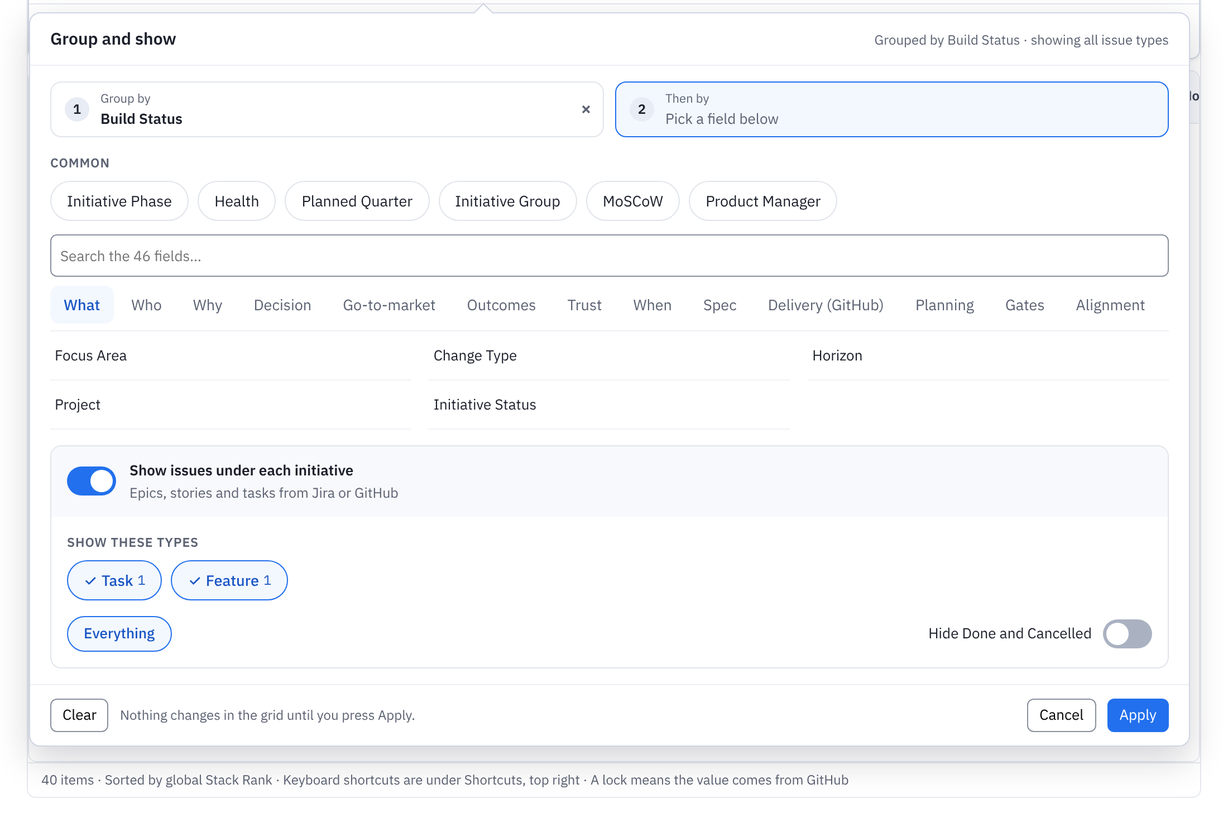
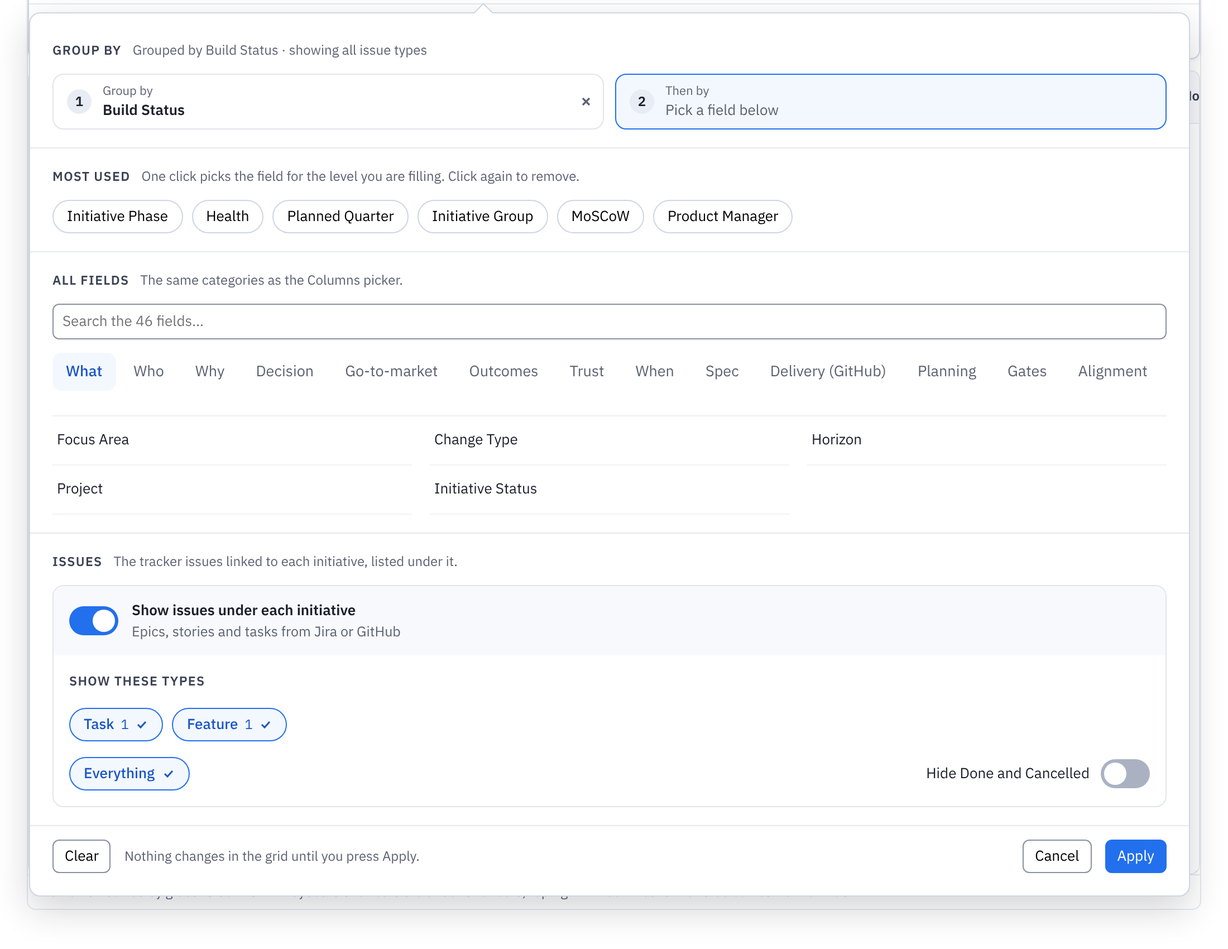
Group by panel: Common is Most used, built from the same parts and pills as the Filters panel (#437)
Claude-Session: https://claude.ai/code/session_01TMdyHs6Xh7SAJXKWikoXp9

diff --git a/apps/web/src/features/portfolio/view-controls.tsx b/apps/web/src/features/portfolio/view-controls.tsx
@@ -1,10 +1,10 @@
 "use client";
 
-import { useEffect, useLayoutEffect, useMemo, useRef, useState, type RefObject } from "react";
+import { useEffect, useLayoutEffect, useMemo, useRef, useState, type KeyboardEvent, type RefObject } from "react";
 import {
   FIELD_BY_KEY, fieldOptions, filterOptions, filterSummary, groupPickerSections, groupSummary, isOpenList, needsSearch, optionsFor, type Filter,
 } from "@pv/domain";
-import { menuSearchKeys, NoResults, SearchInput, SelectField } from "@/components/search-list";
+import { NoResults, SearchInput, SelectField } from "@/components/search-list";
 import { DateInput } from "@/components/date-input";
 import { Popover } from "./popover";
 import type { Lookups } from "./types";
@@ -94,7 +94,7 @@ function GroupPanel({ state, customerSafe, issueTypes, issuesLoading, onOpenIssu
   const [draft, setDraft] = useState<GroupState>({ ...state });
   const [query, setQuery] = useState("");
   // opens on the first category (a few rows), not on all 46 fields, so the issues card below stays in sight
-  const [tab, setTab] = useState<string>(() => groupPickerSections({ customerSafe }).find((x) => x.category !== "Common")?.category ?? ALL_TAB);
+  const [tab, setTab] = useState<string>(() => groupPickerSections({ customerSafe }).find((x) => x.category !== "Most used")?.category ?? ALL_TAB);
   // which level the next pick fills: the first empty one, else the main one
   const [target, setTarget] = useState<0 | 1>(state.groupBy && !state.thenBy ? 1 : 0);
   const panelRef = useRef<HTMLDivElement>(null);
@@ -104,12 +104,12 @@ function GroupPanel({ state, customerSafe, issueTypes, issuesLoading, onOpenIssu
   const names = [draft.groupBy, draft.thenBy] as const;
   const nameOf = (k: string | null) => (k ? groupSummary(k) : null);
   const sections = useMemo(() => groupPickerSections({ customerSafe, taken: level === 0 ? draft.thenBy : draft.groupBy }), [customerSafe, level, draft.thenBy, draft.groupBy]);
-  const common = sections.find((x) => x.category === "Common")?.fields ?? [];
-  const categories = sections.filter((x) => x.category !== "Common");
+  const mostUsed = sections.find((x) => x.category === "Most used")?.fields ?? [];
+  const categories = sections.filter((x) => x.category !== "Most used");
   const searching = query.trim() !== "";
   const all = useMemo(() => fieldOptions(sections.flatMap((x) => x.fields)), [sections]);
   const matching = new Set(filterOptions(all, query).map((o) => o.value));
-  // searching looks through every field (the Common ones too); otherwise the grid shows the chosen category, the Common ones being the chips above
+  // searching looks through every field (the Most used ones too); otherwise the grid shows the chosen category, the Most used ones being the pills above
   const listed = searching ? sections.flatMap((x) => x.fields).filter((f) => matching.has(f.key)) : (tab === ALL_TAB ? categories : categories.filter((x) => x.category === tab)).flatMap((x) => x.fields);
   const mark = (key: string) => (draft.groupBy === key ? "Group by" : draft.thenBy === key ? "Then by" : null);
 
@@ -143,42 +143,61 @@ function GroupPanel({ state, customerSafe, issueTypes, issuesLoading, onOpenIssu
   const typesText = draft.issueTypes === null ? "all issue types" : draft.issueTypes.join(", ");
   const summary = `${draft.groupBy ? `Grouped by ${groupSummary(draft.groupBy, draft.thenBy)}` : "Not grouped"}${draft.showIssues ? ` · showing ${typesText}${draft.hideDone ? ", hiding Done and Cancelled" : ""}` : ""}`;
 
+  // The keyboard path through the pills and the field grid from the search box: Down goes to the first one, Up to the last, Enter takes the first match.
+  const searchKeys = (e: KeyboardEvent<HTMLInputElement>) => {
+    const items = () => Array.from(panelRef.current?.querySelectorAll<HTMLElement>('.gp-body [role="menuitemradio"]') ?? []);
+    if (e.key === "ArrowDown") { e.preventDefault(); items()[0]?.focus(); }
+    else if (e.key === "ArrowUp") { e.preventDefault(); items().at(-1)?.focus(); }
+    else if (e.key === "Enter") { e.preventDefault(); items()[0]?.click(); }
+  };
+  const tick = <svg width="12" height="12" viewBox="0 0 24 24" fill="none" stroke="currentColor" strokeWidth="3" aria-hidden="true"><path d="m5 12 5 5 9-10" /></svg>;
+
   return (
     <div ref={panelRef} role="group" aria-label="Group by" className="gp gp-wide" style={maxHeight ? { maxHeight } : undefined}>
-      <div className="gp-head"><b>Group and show</b><span className="panel-note" aria-live="polite">{summary}</span></div>
       <div className="gp-body">
-        <div className="gp-slots" role="group" aria-label="Grouping levels">
-          {([0, 1] as const).map((l) => {
-            const value = names[l];
-            const off = l === 1 && !draft.groupBy;
-            return (
-              <div key={l} className="gp-slot" data-active={!off && level === l} data-empty={!value}>
-                <button type="button" className="gp-slot-main" aria-label={`Choose the field for ${LEVEL_NAME[l]}: ${nameOf(value) ?? "none yet"}`} aria-pressed={!off && level === l} disabled={off} onClick={() => setTarget(l)} title={off ? "Choose the main grouping first" : `Pick the field for “${LEVEL_NAME[l]}” below`}>
-                  <span className="gp-slot-n" aria-hidden="true">{l + 1}</span>
-                  <span className="gp-slot-text">
-                    <span className="gp-slot-label">{LEVEL_NAME[l]}</span>
-                    <span className="gp-slot-val">{nameOf(value) ?? (off ? "—" : "Pick a field below")}</span>
-                  </span>
-                </button>
-                {value && <button type="button" className="icon-btn" aria-label={`Remove ${LEVEL_NAME[l]} ${nameOf(value)}`} onClick={() => clear(l)}><svg width="10" height="10" viewBox="0 0 10 10" stroke="currentColor" strokeWidth="1.6" aria-hidden="true"><path d="m2 2 6 6M8 2 2 8" /></svg></button>}
-              </div>
-            );
-          })}
-          {draft.groupBy && draft.thenBy && <button type="button" className="btn btn-link" onClick={swap} aria-label={`Swap: group by ${nameOf(draft.thenBy)}, then by ${nameOf(draft.groupBy)}`}>Swap order</button>}
+        <div className="panel-section">
+          <div className="panel-head gp-head"><h2>Group by</h2><span className="panel-note" aria-live="polite">{summary}</span></div>
+          <div className="gp-slots" role="group" aria-label="Grouping levels">
+            {([0, 1] as const).map((l) => {
+              const value = names[l];
+              const off = l === 1 && !draft.groupBy;
+              return (
+                <div key={l} className="gp-slot" data-active={!off && level === l} data-empty={!value}>
+                  <button type="button" className="gp-slot-main" aria-label={`Choose the field for ${LEVEL_NAME[l]}: ${nameOf(value) ?? "none yet"}`} aria-pressed={!off && level === l} disabled={off} onClick={() => setTarget(l)} title={off ? "Choose the main grouping first" : `Pick the field for “${LEVEL_NAME[l]}” below`}>
+                    <span className="gp-slot-n" aria-hidden="true">{l + 1}</span>
+                    <span className="gp-slot-text">
+                      <span className="gp-slot-label">{LEVEL_NAME[l]}</span>
+                      <span className="gp-slot-val">{nameOf(value) ?? (off ? "—" : "Pick a field below")}</span>
+                    </span>
+                  </button>
+                  {value && <button type="button" className="icon-btn" aria-label={`Remove ${LEVEL_NAME[l]} ${nameOf(value)}`} onClick={() => clear(l)}><svg width="10" height="10" viewBox="0 0 10 10" stroke="currentColor" strokeWidth="1.6" aria-hidden="true"><path d="m2 2 6 6M8 2 2 8" /></svg></button>}
+                </div>
+              );
+            })}
+            {draft.groupBy && draft.thenBy && <button type="button" className="btn btn-link" onClick={swap} aria-label={`Swap: group by ${nameOf(draft.thenBy)}, then by ${nameOf(draft.groupBy)}`}>Swap order</button>}
+          </div>
         </div>
+        <hr className="panel-rule" />
 
-        <div className="gp-picker">
-          {!searching && common.length > 0 && (
-            <div role="group" aria-label="Common fields">
-              <p className="gp-label">Common</p>
-              <div className="gp-chips">
-                {common.map((f) => (
-                  <button key={f.key} type="button" role="menuitemradio" aria-checked={mark(f.key) !== null} className="gp-chip" data-on={mark(f.key) !== null} onClick={() => pick(f.key)}>{f.name}</button>
+        {!searching && mostUsed.length > 0 && (
+          <>
+            <div className="panel-section" role="group" aria-label="Most used fields">
+              <div className="panel-head"><h2>Most used</h2><span className="panel-note">One click picks the field for the level you are filling. Click again to remove.</span></div>
+              <div className="qf-row">
+                {mostUsed.map((f) => (
+                  <button key={f.key} type="button" role="menuitemradio" aria-checked={mark(f.key) !== null} className="qf" onClick={() => pick(f.key)}>
+                    {f.name}{mark(f.key) !== null && tick}
+                  </button>
                 ))}
               </div>
             </div>
-          )}
-          {needsSearch(all.length) && <SearchInput value={query} onChange={setQuery} label="Search group by options" placeholder={`Search the ${all.length} fields…`} onKeyDown={menuSearchKeys} />}
+            <hr className="panel-rule" />
+          </>
+        )}
+
+        <div className="panel-section gp-picker">
+          <div className="panel-head"><h2>All fields</h2><span className="panel-note">The same categories as the Columns picker.</span></div>
+          {needsSearch(all.length) && <SearchInput value={query} onChange={setQuery} label="Search group by options" placeholder={`Search the ${all.length} fields…`} onKeyDown={searchKeys} />}
           {!searching && (
             <div className="gp-tabs" role="group" aria-label="Field categories">
               {[...categories.map((x) => x.category), ALL_TAB].map((c) => (
@@ -200,44 +219,50 @@ function GroupPanel({ state, customerSafe, issueTypes, issuesLoading, onOpenIssu
         </div>
 
         {!customerSafe && (
-          <div className="gp-card" data-on={draft.showIssues}>
-            <label className="gp-switch-row">
-              <input type="checkbox" role="switch" className="sw-input" checked={draft.showIssues} onChange={(e) => setDraft({ ...draft, showIssues: e.target.checked })} />
-              <span><b>Show issues under each initiative</b><span className="gp-sub">Epics, stories and tasks from Jira or GitHub</span></span>
-            </label>
-            {draft.showIssues && (
-              <div className="gp-card-body">
-                <div>
-                  <p className="gp-label">Show these types</p>
-                  {issueTypes.length === 0 ? (
-                    <p className="panel-note" role="status">{issuesLoading ? "Reading the linked issues…" : "No linked issues found for the initiatives shown."}</p>
-                  ) : (
-                    <div className="gp-chips" role="group" aria-label="Issue types">
-                      {issueTypes.map((t) => (
-                        <button key={t.type} type="button" className="gp-chip" aria-pressed={selected.includes(t.type)} data-on={selected.includes(t.type)} onClick={() => toggleType(t.type)}>
-                          {selected.includes(t.type) ? <span aria-hidden="true">✓ </span> : null}{t.type} <span className="gp-n">{t.count}</span>
-                        </button>
-                      ))}
+          <>
+            <hr className="panel-rule" />
+            <div className="panel-section">
+              <div className="panel-head"><h2>Issues</h2><span className="panel-note">The tracker issues linked to each initiative, listed under it.</span></div>
+              <div className="gp-card" data-on={draft.showIssues}>
+                <label className="gp-switch-row">
+                  <input type="checkbox" role="switch" className="sw-input" checked={draft.showIssues} onChange={(e) => setDraft({ ...draft, showIssues: e.target.checked })} />
+                  <span><b>Show issues under each initiative</b><span className="gp-sub">Epics, stories and tasks from Jira or GitHub</span></span>
+                </label>
+                {draft.showIssues && (
+                  <div className="gp-card-body">
+                    <div className="gp-block">
+                      <h3 className="gp-h3">Show these types</h3>
+                      {issueTypes.length === 0 ? (
+                        <p className="panel-note" role="status">{issuesLoading ? "Reading the linked issues…" : "No linked issues found for the initiatives shown."}</p>
+                      ) : (
+                        <div className="qf-row" role="group" aria-label="Issue types">
+                          {issueTypes.map((t) => (
+                            <button key={t.type} type="button" className="qf" aria-pressed={selected.includes(t.type)} onClick={() => toggleType(t.type)}>
+                              {t.type} <span className="gp-n">{t.count}</span>{selected.includes(t.type) && tick}
+                            </button>
+                          ))}
+                        </div>
+                      )}
                     </div>
-                  )}
-                </div>
-                <div className="gp-card-row">
-                  {issueTypes.length > 0 && (
-                    <div className="gp-chips" role="group" aria-label="Presets">
-                      {presets.map((p) => <button key={p.label} type="button" className="gp-chip gp-preset" aria-pressed={isPreset(p.types)} data-on={isPreset(p.types)} onClick={() => setDraft({ ...draft, issueTypes: p.types })}>{p.label}</button>)}
+                    <div className="gp-card-row">
+                      {issueTypes.length > 0 && (
+                        <div className="qf-row" role="group" aria-label="Presets">
+                          {presets.map((p) => <button key={p.label} type="button" className="qf" aria-pressed={isPreset(p.types)} onClick={() => setDraft({ ...draft, issueTypes: p.types })}>{p.label}{isPreset(p.types) && tick}</button>)}
+                        </div>
+                      )}
+                      <label className="gp-switch-row gp-switch-inline">
+                        <span>Hide Done and Cancelled</span>
+                        <input type="checkbox" role="switch" className="sw-input" checked={draft.hideDone} onChange={(e) => setDraft({ ...draft, hideDone: e.target.checked })} />
+                      </label>
                     </div>
-                  )}
-                  <label className="gp-switch-row gp-switch-inline">
-                    <span>Hide Done and Cancelled</span>
-                    <input type="checkbox" role="switch" className="sw-input" checked={draft.hideDone} onChange={(e) => setDraft({ ...draft, hideDone: e.target.checked })} />
-                  </label>
-                </div>
+                  </div>
+                )}
               </div>
-            )}
-          </div>
+            </div>
+          </>
         )}
       </div>
-      <div className="gp-foot">
+      <div className="panel-foot gp-foot">
         <button type="button" className="btn btn-link" onClick={() => { setDraft({ groupBy: null, thenBy: null, showIssues: false, issueTypes: null, hideDone: false }); setTarget(0); }}>Clear</button>
         <span className="panel-note grow">Nothing changes in the grid until you press Apply.</span>
         <button type="button" className="btn" onClick={close}>Cancel</button>

diff --git a/apps/web/src/styles/globals.css b/apps/web/src/styles/globals.css
@@ -362,12 +362,11 @@ a.btn { display: inline-flex; align-items: center; color: inherit; text-decorati
 .issue-chip { flex: none; margin-left: auto; height: 22px; padding: 0 8px; border: 1px solid #d8deea; border-radius: 11px; background: var(--bg); font: inherit; font-size: 11.5px; font-weight: 500; line-height: 20px; color: #374151; cursor: pointer; white-space: nowrap; }
 .issue-chip:hover, .issue-chip:focus-visible { border-color: var(--blue); background: var(--blue-tint-2); outline: none; }
 .issue-chip[aria-expanded="false"] { color: var(--blue-text); }
-/* the Group by panel: wide like Columns. Levels as cards, Common as chips, categories as tabs over a three-column grid of fields, an issues card, a footer that stays in reach. */
+/* the Group by panel: wide like Columns, built from the shared panel parts (panel-section, panel-head, panel-rule, panel-foot, the qf pills of the Quick filters). Levels as cards, Most used as pills, categories as tabs over a three-column grid of fields, an issues card, a footer that stays in reach. */
 .gp { display: flex; flex-direction: column; min-width: 0; box-sizing: border-box; }
-.gp-head { flex: none; display: flex; flex-wrap: wrap; align-items: baseline; justify-content: space-between; gap: 4px 12px; padding: 4px 18px 12px; border-bottom: 1px solid var(--grey-2); }
-.gp-head b { font-size: 15px; }
 .gp-body { flex: 1 1 auto; min-height: 0; overflow-y: auto; -webkit-overflow-scrolling: touch; }
-.gp-slots { display: flex; flex-wrap: wrap; align-items: center; gap: 10px; padding: 14px 18px 4px; }
+.gp-foot { flex: none; }
+.gp-slots { display: flex; flex-wrap: wrap; align-items: center; gap: 10px; }
 .gp-slot { display: flex; align-items: center; flex: 1 1 220px; min-height: 48px; border: 1px solid #e1e5eb; border-radius: 10px; padding-right: 6px; }
 .gp-slot[data-active="true"] { border-color: var(--blue); background: var(--blue-tint-2); }
 .gp-slot-main { flex: 1; display: flex; align-items: center; gap: 10px; padding: 6px 12px; border: 0; background: none; font: inherit; text-align: left; cursor: pointer; color: inherit; min-width: 0; }
@@ -377,16 +376,6 @@ a.btn { display: inline-flex; align-items: center; color: inherit; text-decorati
 .gp-slot-label { font-size: 11px; color: #5b6272; }
 .gp-slot-val { font-weight: 600; overflow: hidden; text-overflow: ellipsis; white-space: nowrap; }
 .gp-slot[data-empty="true"] .gp-slot-val { font-weight: 400; color: #5b6272; }
-.gp-picker { padding: 10px 18px 14px; }
-.gp-label { margin: 0 0 8px; font-size: 11.5px; font-weight: 600; letter-spacing: .04em; text-transform: uppercase; color: #5b6272; }
-.gp-chips { display: flex; flex-wrap: wrap; gap: 8px; }
-.gp-chip { display: inline-flex; align-items: center; gap: 4px; min-height: 36px; padding: 0 14px; border: 1px solid #e1e5eb; border-radius: 18px; background: var(--bg); font: inherit; font-size: 13.5px; color: inherit; cursor: pointer; }
-.gp-chip:hover, .gp-chip:focus-visible { border-color: var(--blue); outline: none; }
-.gp-chip[data-on="true"] { border-color: var(--blue); background: var(--blue-tint-2); color: var(--blue-text); font-weight: 500; }
-.gp-n { color: #5b6272; font-size: 12px; font-weight: 400; }
-.gp-chip[data-on="true"] .gp-n { color: var(--blue-text); }
-.gp-preset { min-height: 32px; font-size: 13px; }
-.gp-picker input.search-input { width: 100%; margin: 12px 0 8px; height: 38px; box-sizing: border-box; }
 .gp-tabs { display: flex; gap: 4px; margin: 0 0 6px; overflow-x: auto; -webkit-overflow-scrolling: touch; }
 .gp-tab { flex: none; min-height: 34px; padding: 0 12px; border: 0; border-radius: 8px; background: none; font: inherit; font-size: 13.5px; color: #5b6272; cursor: pointer; }
 .gp-tab[aria-pressed="true"] { background: var(--blue-tint-2); color: var(--blue-text); font-weight: 500; }
@@ -396,11 +385,12 @@ a.btn { display: inline-flex; align-items: center; color: inherit; text-decorati
 .gp-field:hover, .gp-field:focus-visible { background: var(--blue-tint-2); outline: none; }
 .gp-field[aria-checked="true"] { background: var(--blue-tint-2); font-weight: 500; }
 .gp-mark { font-size: 11.5px; color: var(--blue-text); white-space: nowrap; }
-.gp-card { margin: 0 18px 14px; border: 1px solid #e1e5eb; border-radius: 10px; overflow: hidden; }
+.gp-card { border: 1px solid #e1e5eb; border-radius: 10px; overflow: hidden; }
 .gp-switch-row { display: flex; align-items: center; gap: 12px; cursor: pointer; }
 .gp-card > .gp-switch-row { padding: 12px 14px; background: var(--header-bg); }
 .gp-sub { display: block; color: #5b6272; font-size: 12.5px; }
 .gp-card-body { display: grid; gap: 14px; padding: 14px; }
+.gp-block { display: grid; gap: 8px; }
 .gp-card-row { display: flex; flex-wrap: wrap; align-items: center; justify-content: space-between; gap: 10px 16px; }
 .gp-switch-inline { gap: 10px; margin-left: auto; }
 /* an on / off switch made from a checkbox: it keeps its label, the keyboard and the screen reader */
@@ -409,9 +399,6 @@ input.sw-input::after { content: ""; position: absolute; left: 3px; top: 3px; wi
 input.sw-input:checked { background: var(--blue); }
 input.sw-input:checked::after { transform: translateX(18px); }
 input.sw-input:focus-visible { outline: 2px solid var(--blue); outline-offset: 2px; }
-.gp-foot { flex: none; display: flex; align-items: center; gap: 10px; padding: 12px 18px 4px; border-top: 1px solid var(--grey-2); }
-.gp-foot .grow { flex: 1 1 auto; }
-.gp-foot .btn { height: 40px; }
 .group-health { font-weight: 400; color: var(--ink-muted); font-size: 12px; }
 .cell-name { font-weight: 600; color: var(--ink); }
 .group-row { display: flex; align-items: center; gap: 8px; height: 100%; padding: 0 12px; background: var(--header-bg); font-weight: 600; font-size: 12.5px; color: #374151; }
@@ -736,6 +723,11 @@ kbd { font-family: var(--font-mono); font-size: 12px; background: var(--grey-3);
 .qf { display: inline-flex; align-items: center; gap: 6px; height: 30px; padding: 0 12px; border: 1px solid #cfd5e3; border-radius: 15px; background: var(--bg); cursor: pointer; font: inherit; }
 .qf:hover { background: var(--grey-3); }
 .qf[aria-pressed="true"] { background: var(--blue-tint-2); border-color: #2270ed; color: var(--blue-text); font-weight: 500; }
+.qf[aria-checked="true"] { background: var(--blue-tint-2); border-color: #2270ed; color: var(--blue-text); font-weight: 500; }
+.gp-n { color: #5b6272; font-size: 12px; font-weight: 400; }
+.qf[aria-pressed="true"] .gp-n, .qf[aria-checked="true"] .gp-n { color: var(--blue-text); }
+.gp-h3 { margin: 0 0 8px; font-size: 11.5px; font-weight: 600; letter-spacing: .06em; text-transform: uppercase; color: #3b4254; }
+.gp-picker .search-input { width: 100%; margin: 0; height: 38px; box-sizing: border-box; }
 .rule-and { padding-left: 50px; font-size: 12px; font-weight: 600; color: #5b6272; }
 .rule-row { display: flex; align-items: center; flex-wrap: wrap; gap: 8px; }
 .rule-row .where { width: 42px; text-align: right; color: #5b6272; }

diff --git a/packages/domain/src/views.ts b/packages/domain/src/views.ts
@@ -161,21 +161,21 @@ export function groupableFields(): FieldDef[] {
   return FIELDS.filter((f) => f.type === "Select" || f.type === "Person" || f.type === "Boolean" || f.key === "home_project");
 }
 
-/** The groups the Group by picker opens with, above the categories. */
-export const COMMON_GROUP_KEYS: readonly string[] = ["initiative_phase", "status", "health", "g2m_quarter", "theme", "moscow", "product_manager"];
+/** The fields the Group by picker offers first, as one-click pills above the categories ("Most used"). */
+export const MOST_USED_GROUP_KEYS: readonly string[] = ["initiative_phase", "status", "health", "g2m_quarter", "theme", "moscow", "product_manager"];
 
 /**
  * What the Group by picker lists: the groupable fields under the same category headings as the Columns picker (the dictionary's "group", in its order),
- * (a field in Common is not listed again under its category) minus fields hidden in the app and, for a customer-safe view, minus fields a customer may not see. `taken` leaves out the field already used by the other level.
+ * (a field in Most used is not listed again under its category) minus fields hidden in the app and, for a customer-safe view, minus fields a customer may not see. `taken` leaves out the field already used by the other level.
  */
 export function groupPickerSections(opts: { customerSafe?: boolean; taken?: string | null } = {}): { category: string; fields: FieldDef[] }[] {
   const ok = (f: FieldDef) => !HIDDEN_FIELDS.has(f.key) && f.key !== opts.taken && (!opts.customerSafe || isCustomerSafe(f.key));
   const fields = groupableFields().filter(ok);
   const out: { category: string; fields: FieldDef[] }[] = [];
-  const common = COMMON_GROUP_KEYS.map((k) => fields.find((f) => f.key === k)).filter((f): f is FieldDef => !!f);
-  if (common.length > 0) out.push({ category: "Common", fields: common });
+  const common = MOST_USED_GROUP_KEYS.map((k) => fields.find((f) => f.key === k)).filter((f): f is FieldDef => !!f);
+  if (common.length > 0) out.push({ category: "Most used", fields: common });
   for (const f of fields) {
-    if (common.includes(f)) continue; // each field is listed once: the Common shortcuts are not repeated under their category
+    if (common.includes(f)) continue; // each field is listed once: the Most used shortcuts are not repeated under their category
     let sec = out.find((x) => x.category === f.group);
     if (!sec) { sec = { category: f.group, fields: [] }; out.push(sec); }
     sec.fields.push(f);

diff --git a/packages/domain/src/views.test.ts b/packages/domain/src/views.test.ts
@@ -1,5 +1,5 @@
 import { describe, expect, it } from "vitest";
-import { CUSTOMER_SAFE_KEYS, buildGroupedRows, effectiveSort, sortDirectionLabels, sortSummary, healthBreakdown, filterSummary, groupableFields, isCustomerSafe, groupPickerSections, groupSummary, COMMON_GROUP_KEYS, matchesFilters, matchesSearch, opsFor, sanitizeView, type Filter } from "./views";
+import { CUSTOMER_SAFE_KEYS, buildGroupedRows, effectiveSort, sortDirectionLabels, sortSummary, healthBreakdown, filterSummary, groupableFields, isCustomerSafe, groupPickerSections, groupSummary, MOST_USED_GROUP_KEYS, matchesFilters, matchesSearch, opsFor, sanitizeView, type Filter } from "./views";
 import { QUICK_FILTERS, customFilters, quickFilterOn, toggleQuickFilter } from "./quick-filters";
 import { FIELDS, FIELD_BY_KEY, HIDDEN_FIELDS } from "./registry";
 import { setDateFormat } from "./dates";
@@ -383,13 +383,13 @@ describe("two-level grouping and the group picker (issue #437)", () => {
     expect(groupSummary("status", "sponsor")).toBe("Build Status › Sponsor");
     expect(groupSummary("moscow", "moscow")).toBe("MoSCoW");
   });
-  it("lists the groupable fields under the Columns picker's categories, Common first, each field once, nothing hidden, nothing taken", () => {
+  it("lists the groupable fields under the Columns picker's categories, Most used first, each field once, nothing hidden, nothing taken", () => {
     const sec = groupPickerSections();
-    expect(sec[0]!.category).toBe("Common");
-    expect(sec[0]!.fields.map((f) => f.key)).toEqual(COMMON_GROUP_KEYS.filter((k) => groupableFields().some((f) => f.key === k)));
+    expect(sec[0]!.category).toBe("Most used");
+    expect(sec[0]!.fields.map((f) => f.key)).toEqual(MOST_USED_GROUP_KEYS.filter((k) => groupableFields().some((f) => f.key === k)));
     const all = sec.slice(1).flatMap((x) => x.fields.map((f) => f.key));
     expect(all).not.toContain("roadmap_category"); // hidden in the app: picking it would silently do nothing
-    expect(all).not.toContain("status"); // Common holds it; each field is listed once
+    expect(all).not.toContain("status"); // Most used holds it; each field is listed once
     expect(all).toContain("sponsor");
     expect(new Set([...sec[0]!.fields.map((f) => f.key), ...all]).size).toBe(sec[0]!.fields.length + all.length);
     expect(sec.slice(1).map((x) => x.category)).toEqual(expect.arrayContaining(["What", "Who", "Why"]));

diff --git a/apps/web/e2e/group-by-levels.spec.ts b/apps/web/e2e/group-by-levels.spec.ts
@@ -18,14 +18,14 @@ test.describe("Group by: picker, two levels, issues", () => {
     await expect(groupBtn(page)).toHaveText(/Group by:\s*None/);
   });
 
-  test("the picker: Common as chips, the other fields under the Columns picker's categories as tabs, each field once", async ({ page }) => {
+  test("the picker: Most used as pills, the other fields under the Columns picker's categories as tabs, each field once", async ({ page }) => {
     await open(page);
     await groupBtn(page).click();
     await expect(searchBox(page)).toBeFocused(); // the search box takes the focus when the panel opens
     const tabs = await page.locator(".gp-tab").allInnerTexts();
     expect(tabs[tabs.length - 1]).toBe("All"); // All is the last tab; the panel opens on the first category
     expect(tabs).toEqual(expect.arrayContaining(["What", "Who", "Why"]));
-    await expect(page.getByRole("group", { name: "Common fields" }).getByRole("menuitemradio")).toHaveCount(7);
+    await expect(page.getByRole("group", { name: "Most used fields" }).getByRole("menuitemradio")).toHaveCount(7);
     await expect(page.getByRole("menuitemradio", { name: "Build Status" })).toHaveCount(1);
     await expect(page.getByRole("menuitemradio", { name: "Roadmap Category" })).toHaveCount(0); // hidden in the app
     await expect(page.getByRole("menuitemradio", { name: "Focus Area" })).toHaveCount(1); // the first category (What)

diff --git a/docs/13-GRID.md b/docs/13-GRID.md
@@ -52,7 +52,7 @@ Follows prototype boards 20 and 1 (see `docs/07-PROTOTYPE-MAP.md` for the three 
 - **Filters** (all must match; the panel has seven one-click **quick filters** and **custom rules**; a rule can be **is any of** several values; Created At, Last Updated and Status Changed At filter as dates; "is today / this week / this month" never go stale): choose a field, an operator that fits its type (is, is not, contains, greater/less than, before/after, is empty) and a value; dates take plain words or your own date format, with a calendar button to pick, and offer *before, after, between two dates, is, in the last N days, in the next N days*; "me" works for people. Each filter is a chip with ×. **Search** looks in the code and name. A row you just added or imported stays visible even if a filter would hide it; rows you edit stay until you change the filter.
 - **Group by** a list field, person, project or yes/no (issue #437). A header row per group (count, health in words, collapse / expand). **Off by default.** Inside a group rows keep their rank order; empty values come last. While grouped, the global rank order is not applied across groups.
   - **Two levels.** "Group by" plus "Then by": each group is split again by the second field, with an indented sub-header (its own count and health words). Collapsing a group hides its sub-groups. The second level needs the first and cannot be the same field. A view saved with one level reads exactly as before (`saved_views.then_by` is empty).
-  - **The panel (redesigned 2026-11-15, Ashu).** Wide like Columns, titled "Group and show", with a live one-line summary ("Grouped by Build Status · showing Epic, Story, hiding Done and Cancelled"). **Levels** as two numbered cards ("1 Group by", "2 Then by"; click one to choose which the next pick fills; ✕ removes it, removing the main level promotes the second; "Swap order"). **Common** as tappable chips (Initiative Phase, Build Status, Health, Planned Quarter, Initiative Group, MoSCoW, Product Manager). A **search box that takes the focus when the panel opens** (also on a tablet: it is wanted), then **category tabs** (the same categories as the Columns picker; the panel opens on the first one, All is last) over a three-column grid of 44 px rows. A field in Common is not repeated in the grid; searching looks through every field. The **Show issues** card follows (below). **Staged like the Columns panel:** choices are made on a draft, the panel stays open, nothing changes in the grid until **Apply** (it closes); **Cancel**, Escape or a click outside discards; **Clear** empties the draft. A change of focus never closes it (the panel is `staged`). **The footer stays in reach:** the panel is never taller than the visible window (on a tablet, with the on-screen keyboard up, it gets shorter and its body scrolls). Fields hidden in the app (Roadmap Category) are not offered; a customer-safe view offers only customer-safe fields. The command palette has "Group by ...", "Then by ...", "Show issues under initiatives" and "Collapse / Expand all issues".
+  - **The panel (redesigned 2026-11-15, Ashu).** Wide like Columns and built from the same parts as the Filters and Columns panels (section headings in capitals, rules between sections, the same pills, the same footer), with a live one-line summary ("Grouped by Build Status · showing Epic, Story, hiding Done and Cancelled"). **Levels** as two numbered cards ("1 Group by", "2 Then by"; click one to choose which the next pick fills; ✕ removes it, removing the main level promotes the second; "Swap order"). **Most used** as the same one-click pills as the Quick filters section of the Filters panel (Initiative Phase, Build Status, Health, Planned Quarter, Initiative Group, MoSCoW, Product Manager). A **search box that takes the focus when the panel opens** (also on a tablet: it is wanted), then **category tabs** (the same categories as the Columns picker; the panel opens on the first one, All is last) over a three-column grid of 44 px rows. A field in Most used is not repeated in the grid; searching looks through every field. The issue types and the presets in the Show issues card use the same pills. The **Show issues** card follows (below). **Staged like the Columns panel:** choices are made on a draft, the panel stays open, nothing changes in the grid until **Apply** (it closes); **Cancel**, Escape or a click outside discards; **Clear** empties the draft. A change of focus never closes it (the panel is `staged`). **The footer stays in reach:** the panel is never taller than the visible window (on a tablet, with the on-screen keyboard up, it gets shorter and its body scrolls). Fields hidden in the app (Roadmap Category) are not offered; a customer-safe view offers only customer-safe fields. The command palette has "Group by ...", "Then by ...", "Show issues under initiatives" and "Collapse / Expand all issues".
   - **Show issues under each initiative** (a checkbox in the same panel, stored in the view as `show_issues`; staged like the rest of the panel). The initiative keeps its own data row (bold) and its linked tracker issues follow it as rows, under whatever grouping is on (none, one or two levels). **Laid out as children of the initiative (2026-11-15, Ashu):** the issue key sits under the **Initiative ID** column, the type and title under the **Initiative Name** column behind a branch line (`├` / `└`) that joins them to the initiative, then the status in words and the assignee in the columns after; the positions are read from the grid and follow a resized, moved, locked or hidden column. Issue rows are smaller, muted text with no background of their own (a light tint was tried in 1.146.0 and read as the table header); a firmer line above each initiative makes an initiative with its issues one block. **No separate header row:** a chip on the right of the Initiative Name cell, `▾ 7 issues · 2 To Do · 5 Done`, folds and unfolds that initiative's issues (the status words show when the name column is wide enough, always in its tooltip and screen-reader label; a click on it does not edit the name). The command palette has "Show / Hide issues under initiatives" and "Collapse all issues" / "Expand all issues". Jira first, else GitHub, the same first level as the "Roadmap with epics" Excel report (`controller.childrenOf`); the full tree stays in the item panel. Both trackers alike. Initiatives without linked issues get no chip. Issue rows span the grid, cannot be selected or edited and are skipped by J / K. Issues load for the shown initiatives only, once each. Not offered in customer-safe views (tracker issues are not customer-safe). (History: a checkbox with an "Issues of R-01" header row in 1.145.0; this layout replaces the header row.)
   - **Choosing what to show (issue #437, 2026-11-15).** When the Show issues switch is on, the card lists the issue types found among the linked issues of the initiatives shown, with counts (Epic, Story, Task, Bug, Sub-task first, then others; types come from the data, so custom Jira types appear), as chips to tick; at least one stays ticked, and none ticked by the view means every type. **Presets:** "Everything", "Epics only" (when there are epics), "Without bugs" (when there are bugs). **Hide Done and Cancelled** (off by default) leaves out issues whose tracker status is in the Done category (GitHub: closed). The chip on an initiative counts what is shown and says how many the filter hides ("· 2 hidden"). Saved with the view: `saved_views.issue_types` (null = every type) and `issues_hide_done` (migration `20261115102159_issue_types_and_hide_done`). The panel asks for the issues when it opens so the types can be counted ("Reading the linked issues…" until they are in). Planned, not built: epic → story/task nesting once initiatives link to a Jira Initiative (#431).
   - **Not in the cards view.** Cards swimlanes keep using one grouping field.

diff --git a/docs/decisions/2026-11-14-group-by-two-levels.md b/docs/decisions/2026-11-14-group-by-two-levels.md
@@ -18,3 +18,5 @@ request: 437
 **Update (Ashu, 2026-11-15, after using 1.146.0):** the light tint on the issue rows had almost the colour of the table header and felt heavy. **The issue rows have no background of their own now:** the branch line, the indent, the smaller muted type and the firmer line above each initiative carry the hierarchy.
 
 **Update (Ashu, 2026-11-15): the Group by panel is redesigned and Show issues gets a type filter.** Wide like Columns; levels as cards; Common as chips; category tabs over a three-column field grid (opens on the first category so the issues card stays in sight); an issues card with the issue types found in the data (with counts, ticked to show), presets and a "Hide Done and Cancelled" switch (off by default). **The search box keeps grabbing the focus, also on a tablet (Ashu: "should grab focus")**; to keep Apply reachable when the on-screen keyboard opens, the panel shrinks to the visible area and its body scrolls. The types are the tracker's own issue types, read from the data, not a fixed list. Storage: `saved_views.issue_types text[]` (null = every type) and `issues_hide_done boolean`; migration `20261115102159_issue_types_and_hide_done.sql`, applied to production before the merge. **Not built yet:** showing epic → story/task nesting (needs the Initiative links of #431; it also changes the line "no story or task level view is built" in `2026-11-13-tracker-initiative-level.md`, Ashu's call).
+
+**Update (Ashu, 2026-11-15): "Common" is renamed "Most used" and looks like the Quick filters section.** Consistency across the panels matters: the Group by panel now uses the shared panel parts (section headings, rules, footer) and the same `qf` pills as Quick filters for Most used, the issue types and the presets; the selected pill carries a tick, as there.

diff --git a/docs/releases/unreleased/20261115-group-by-panel-redesign-issue-types.md b/docs/releases/unreleased/20261115-group-by-panel-redesign-issue-types.md
@@ -1,4 +1,4 @@
 ---
 bump: minor
 ---
-**A redesigned Group by panel, and a choice of which issues to show.** The panel is wide like Columns: the two levels as cards, the common fields as chips, category tabs over a grid of fields, and a footer that stays in reach (also with the tablet keyboard open). "Show issues" is now a card: tick the issue types to list (Epic, Story, Task, Bug and any other type found, with counts), pick a preset (Everything, Epics only, Without bugs) and switch on "Hide Done and Cancelled". The chip on an initiative says how many issues the choice hides. The choice is saved with the view (migration `20261115102159_issue_types_and_hide_done`).
+**A redesigned Group by panel, and a choice of which issues to show.** The panel is wide like Columns: the two levels as cards, the most used fields as the same one-click pills as the Quick filters, category tabs over a grid of fields, and a footer that stays in reach (also with the tablet keyboard open). "Show issues" is now a card: tick the issue types to list (Epic, Story, Task, Bug and any other type found, with counts), pick a preset (Everything, Epics only, Without bugs) and switch on "Hide Done and Cancelled". The chip on an initiative says how many issues the choice hides. The choice is saved with the view (migration `20261115102159_issue_types_and_hide_done`).
